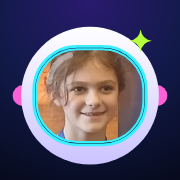
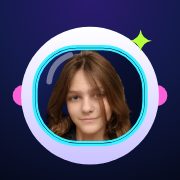
Swap in the new transparent photo of Braylee
Cutout of her head and hair (made locally, source photo and cutout stay in
private/), re-fitted to the visor, helmet avatar, icons and share image.

Changed region(s): [[0.1944, 0.2778, 0.8056, 0.8056]]

diff --git a/components/space/Astronaut.jsx b/components/space/Astronaut.jsx
@@ -221,7 +221,6 @@ export default function Astronaut({ pose = 'idle', size = 120, className = '', s
           <stop offset="1" stopColor="#4b2fa8" />
         </radialGradient>
         <clipPath id={`${id}v`}><circle cx="90" cy="62" r="36" /></clipPath>
-        <clipPath id={`${id}h`}><circle cx="90" cy="60" r="29" /></clipPath>
         <clipPath id={`${id}c`}><rect x="0" y="0" width={VB_W} height={VB_H} /></clipPath>
       </defs>
 
@@ -296,8 +295,8 @@ export default function Astronaut({ pose = 'idle', size = 120, className = '', s
           <g clipPath={`url(#${id}v)`}>
             <circle cx="90" cy="62" r="36" fill={C.panel} />
             {src ? (
-              // photo at 80% of the visor, centred slightly high, so there is breathing room inside the glass
-              <image href={src} x="61" y="31" width="58" height="58" preserveAspectRatio="xMidYMid slice" clipPath={`url(#${id}h)`} />
+              // transparent cutout (hair, face, collar) over the dark visor; the visor clip is its only edge
+              <image href={src} x="56" y="28" width="68" height="68" preserveAspectRatio="xMidYMid meet" />
             ) : (
               <text x="90" y="76" textAnchor="middle" fontSize="44">👩🚀</text>
             )}

diff --git a/components/space/AstronautHelmet.jsx b/components/space/AstronautHelmet.jsx
@@ -46,10 +46,10 @@ function AstronautHelmet({ size = 96, float = true, photo = true, className = ''
       <div className="absolute inset-0 rounded-full border-[3px] border-neon-cyan bg-gradient-to-b from-space-600 to-space-800" />
       <div className="absolute rounded-full border border-ink/40 bg-space-950 shadow-[inset_0_0_14px_rgba(56,240,255,0.5)]" style={{ inset: '8%' }} />
       {/* Visor content */}
-      <div className="absolute overflow-hidden rounded-full bg-space-700" style={{ inset: '11%' }}>
+      <div className="absolute overflow-hidden rounded-full bg-space-950" style={{ inset: '11%' }}>
         {src ? (
           // eslint-disable-next-line @next/next/no-img-element
-          <img src={src} alt="Your astronaut photo" className="h-full w-full object-cover" style={{ objectPosition: '50% 40%' }} />
+          <img src={src} alt="Your astronaut photo" className="h-full w-full object-contain" />
         ) : (
           <div role="img" aria-label="Astronaut" className="flex h-full w-full items-center justify-center" style={{ fontSize: size * 0.5 }}>👩🚀</div>
         )}

diff --git a/prisma/seed-users.js b/prisma/seed-users.js
@@ -12,7 +12,7 @@ export async function main() {
   await prisma.user.upsert({
     where: { name: 'Braylee' },
     update: {},
-    create: { name: 'Braylee', pin: await hash('5106'), image: '/Braylee.jpg' },
+    create: { name: 'Braylee', pin: await hash('5106'), image: '/braylee/face-512.webp' },
   });
   console.log('Users seeded');
 }

diff --git a/scripts/braylee-cutout.py b/scripts/braylee-cutout.py
@@ -1,0 +1,49 @@
+"""Cuts Braylee out of her source photo, fully offline (no web service, no paid API).
+
+Usage (venv with: rembg[cpu] pillow numpy opencv-python-headless pymatting):
+  U2NET_HOME=<dir for model files> python -I scripts/braylee-cutout.py
+Reads  private/avatars/braylee-source-2026-11-06.png  (gitignored, tuned for that exact photo)
+Writes private/avatars/braylee-cutout.png             (1500x1500, transparent, no metadata; gitignored)
+Then run: node scripts/build-braylee-face.mjs && node scripts/build-icons.mjs && node scripts/build-og-image.mjs
+Model: isnet-general-use via rembg with alpha matting; then keep the main blob, soften the edge, decontaminate colours.
+"""
+import os
+import cv2
+import numpy as np
+from PIL import Image
+from pymatting import estimate_foreground_ml
+from rembg import new_session, remove
+
+ROOT = os.path.join(os.path.dirname(os.path.abspath(__file__)), '..')
+AV = os.path.join(ROOT, 'private', 'avatars')
+src = Image.open(os.path.join(AV, 'braylee-source-2026-11-06.png')).convert('RGB')
+
+cut = remove(src, session=new_session('isnet-general-use'), alpha_matting=True,
+             alpha_matting_foreground_threshold=240, alpha_matting_background_threshold=15, alpha_matting_erode_size=8)
+a = np.asarray(cut)[..., 3].astype(np.float32) / 255
+rgb = np.asarray(src) / 255.0
+H, W = a.shape
+yy, xx = np.mgrid[0:H, 0:W]
+ellipse = lambda k: cv2.getStructuringElement(cv2.MORPH_ELLIPSE, (k, k))
+
+# main blob only
+n, lab, st, _ = cv2.connectedComponentsWithStats((a > 0.5).astype(np.uint8), connectivity=8)
+a = a * cv2.dilate((lab == 1 + np.argmax(st[1:, cv2.CC_STAT_AREA])).astype(np.uint8), np.ones((9, 9), np.uint8))
+
+# pink box peeking over the crown: remove only solid pink blobs (not speckles of hair)
+pink = ((yy < 300) & (rgb[..., 2] > 0.8 * rgb[..., 1])).astype(np.uint8)
+blob = cv2.dilate(cv2.morphologyEx(pink, cv2.MORPH_OPEN, ellipse(19)), ellipse(15)) > 0
+a = a * (~blob)
+# fade out the clutter at the far left edge
+a = a * np.where((yy > 650) & (yy < 1500), np.clip((xx - 60) / 110.0, 0, 1), 1.0)
+# re-close the crown where the pink box was
+closed = cv2.morphologyEx(a, cv2.MORPH_CLOSE, ellipse(91))
+a = np.where((yy < 330) & (xx > 500) & (xx < 1000), np.maximum(a, closed), a)
+
+# trim halo, soften, rescale
+a = cv2.GaussianBlur(cv2.erode(a, np.ones((3, 3), np.uint8)), (0, 0), 1.6)
+a = np.clip((a - 0.08) / 0.84, 0, 1)
+fg = estimate_foreground_ml(rgb, a)
+out = Image.fromarray((np.dstack([np.clip(fg, 0, 1), a]) * 255).astype(np.uint8), 'RGBA')
+out.crop((0, 70, 1500, 1570)).save(os.path.join(AV, 'braylee-cutout.png'), optimize=True)
+print('wrote private/avatars/braylee-cutout.png')

diff --git a/README.md b/README.md
@@ -73,7 +73,7 @@ API Overview
 
 Notes
 
-- Public assets (Braylee.jpg and GIFs) are copied under `public/`.
+- Public assets (Braylee's cutout in `public/braylee/` and GIFs) are copied under `public/`.
 - Tailwind and the "Gochi Hand" Google font are configured to match the original styling.
 
 # brayee-times-table-next
